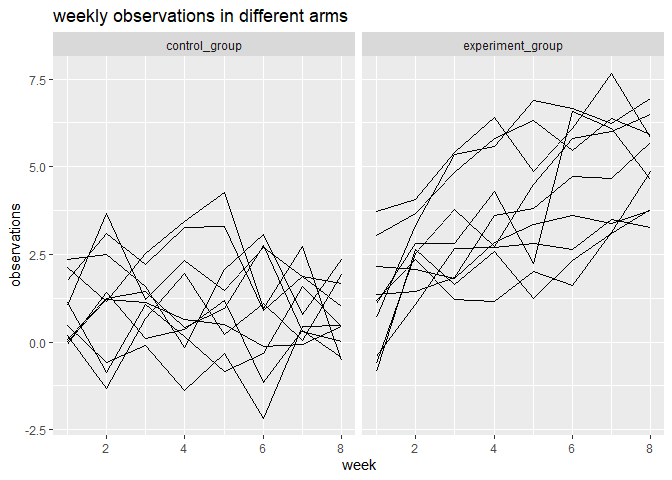
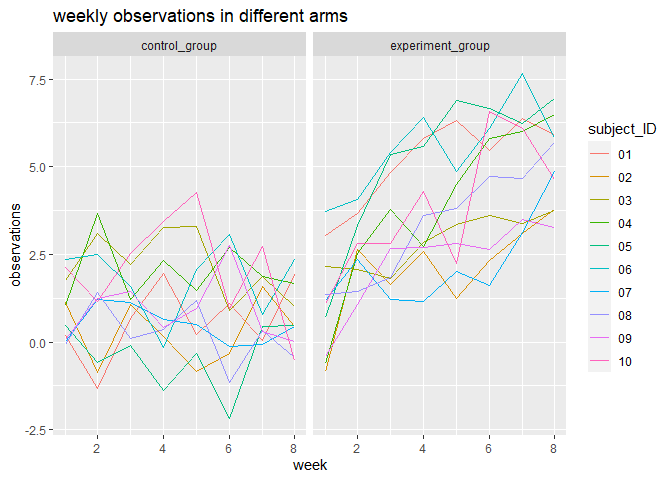
Some minor changes

diff --git a/p8105_hw5_hz2770.md b/p8105_hw5_hz2770.md
@@ -198,7 +198,6 @@ study_data = tibble(
   mutate(file_name = str_remove(file_name, ".csv")) %>% 
   separate(file_name, c("control_arm", "subject_ID"), sep = "_") %>%
   mutate(
-    subject_ID = as.numeric(subject_ID),
     control_arm = as.factor(control_arm),
     control_arm = recode(control_arm, con = "control_group", exp = "experiment_group")
   ) %>% 
@@ -419,26 +418,26 @@ study_data
 
     ## # A tibble: 160 x 4
     ##    control_arm   subject_ID  week observations
-    ##    <fct>              <dbl> <dbl>        <dbl>
-    ##  1 control_group          1     1         0.2 
-    ##  2 control_group          1     2        -1.31
-    ##  3 control_group          1     3         0.66
-    ##  4 control_group          1     4         1.96
-    ##  5 control_group          1     5         0.23
-    ##  6 control_group          1     6         1.09
-    ##  7 control_group          1     7         0.05
-    ##  8 control_group          1     8         1.94
-    ##  9 control_group          2     1         1.13
-    ## 10 control_group          2     2        -0.88
+    ##    <fct>         <chr>      <dbl>        <dbl>
+    ##  1 control_group 01             1         0.2 
+    ##  2 control_group 01             2        -1.31
+    ##  3 control_group 01             3         0.66
+    ##  4 control_group 01             4         1.96
+    ##  5 control_group 01             5         0.23
+    ##  6 control_group 01             6         1.09
+    ##  7 control_group 01             7         0.05
+    ##  8 control_group 01             8         1.94
+    ##  9 control_group 02             1         1.13
+    ## 10 control_group 02             2        -0.88
     ## # ... with 150 more rows
 
 Make a spaghetti plot.
 
 ``` r
 study_data %>% 
-  ggplot(aes(x = week, y = observations, group = subject_ID)) +
-  facet_grid(.~control_arm) +
+  ggplot(aes(x = week, y = observations, color = subject_ID)) +
   geom_line() +
+  facet_grid(.~control_arm) +
   labs(
     x = "week",
     y = "observations",
@@ -448,9 +447,9 @@ study_data %>%
 
 ![](p8105_hw5_hz2770_files/figure-gfm/unnamed-chunk-8-1.png)<!-- -->
 
-From the spaghetti plot, we can see that the experiment arm has an
-overall increasing trend as time goes by, while the control arm has a
-rather stable value with a little fluctuation.
+From the spaghetti plot, we can see that observations in experiment arm
+has an overall increasing trend as time goes by, while the control arm
+has a rather stable value with a little fluctuations.
 
 ## Problem 3
 
